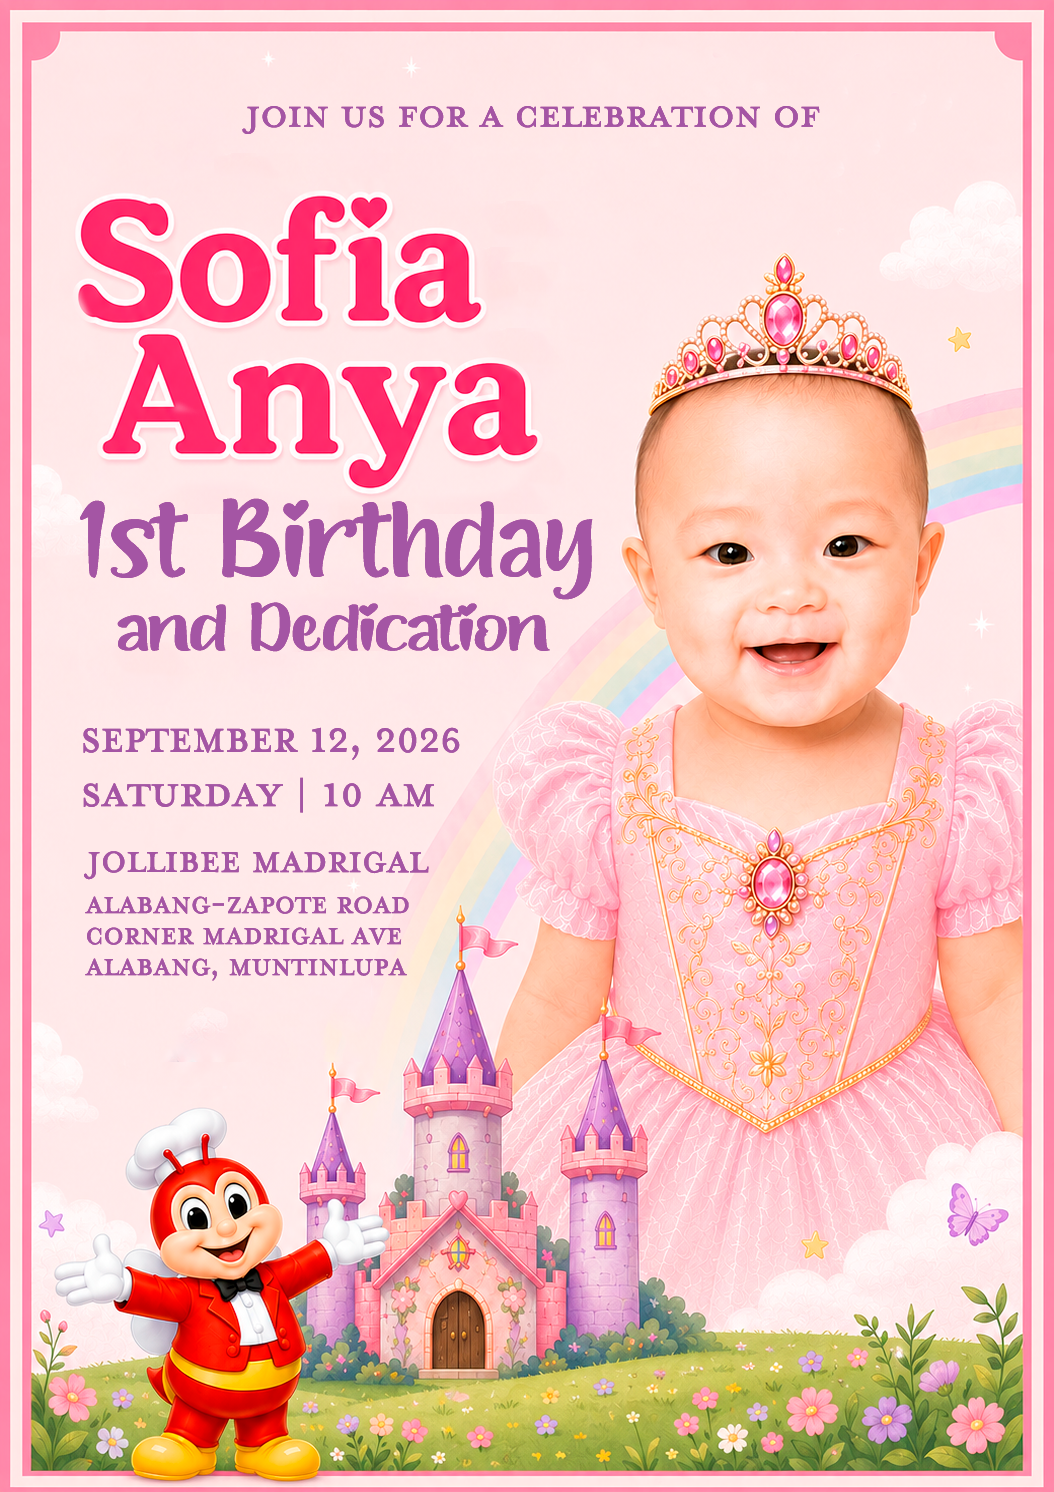
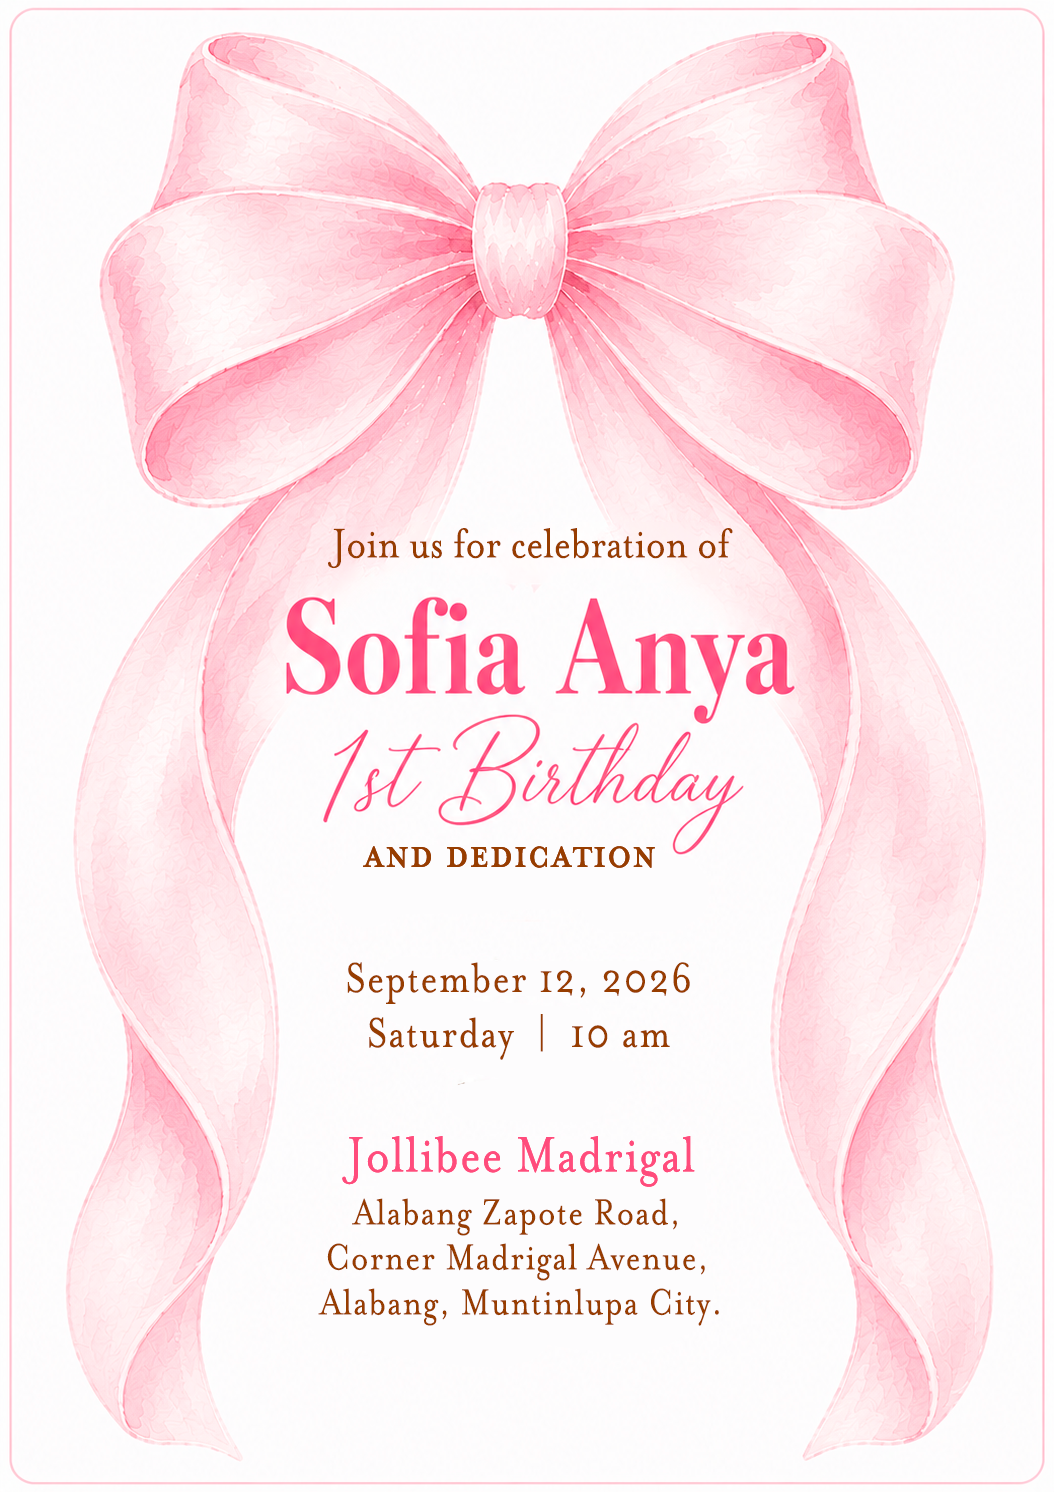
Add files via upload

diff --git a/script.js b/script.js
@@ -173,7 +173,7 @@ See you soon!
 
 💕
 Love,
-Anya”`,
+Anya`,
     button:"close"
 }
 
@@ -192,7 +192,7 @@ take good care!
 
 💕
 Love,
-Anya”
+Anya
 `,
     button:"close",
     notAttendingEnding:true
@@ -245,7 +245,8 @@ and help guide me as I grow up?`,
         {
             gif: "Assets/gifs/overjoy.gif",
             title: "",
-            text: `Really!!! Wow! Thank you so much!
+            text: `Really!?? Wow! 
+            Thank you so much!
 
 Knowing you'll be one of my ${sponsorTitle} makes my heart so happy.
 I promise I'll keep making you proud as I grow up.
